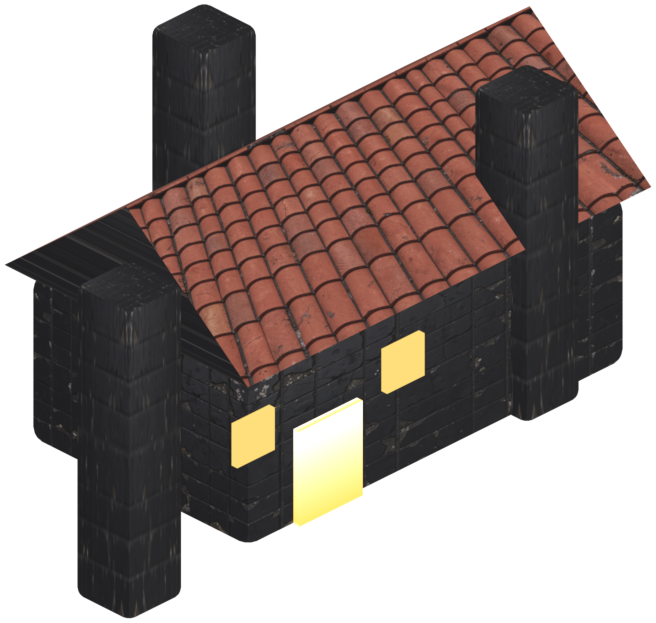
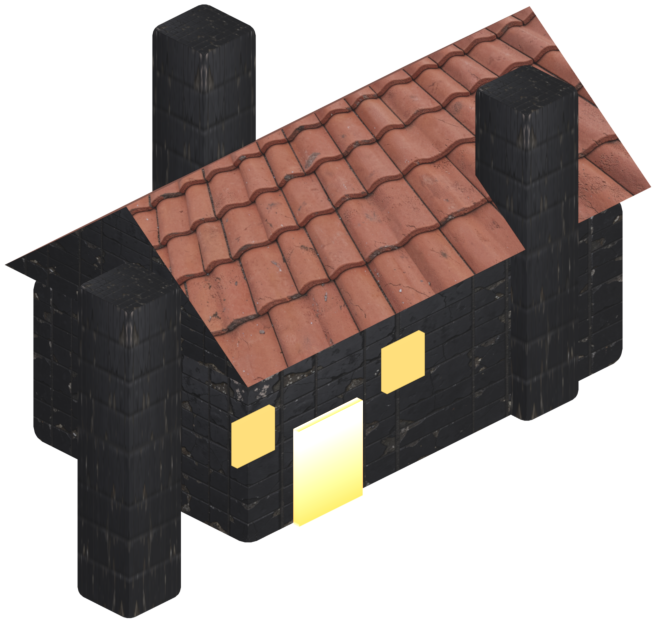
fix(world122): 仓鼠兵营屋顶 v2——山墙端面 UV u沿Y修复黑砖拉伸 + 红瓦按斜面比例重新生图(1280x500)

Changed region(s): [[0.1829, 0.0, 1.0, 0.6404]]

diff --git a/tools/ai-gen/render-factory-real.py b/tools/ai-gen/render-factory-real.py
@@ -139,21 +139,23 @@ def make_prism(L, W, H):
 
 def prism_uv(o, L, W, H):
     """坡屋顶 UV：坡面 u 沿 X（瓦行平行檐口/斜边）、v 沿斜面坡度（z/H，脊=1）；
-    山墙端面平面映射（u 沿 X、v 沿 Z）。"""
+    山墙端面平面映射（u 沿 Y 水平、v 沿 Z——端面在 Y-Z 平面，u 绝不能沿 X 否则
+    纹理坍缩成单列竖带被拉满全三角）。"""
     me = o.data
     uvl = me.uv_layers[0] if me.uv_layers else me.uv_layers.new(name="UVMap")
     for poly in me.polygons:
         coords = [me.vertices[me.loops[li].vertex_index].co for li in poly.loop_indices]
         xs = [c.x for c in coords]
+        ys = [c.y for c in coords]
         zs = [c.z for c in coords]
-        dx = max((max(xs) - min(xs)) or 1.0, 1e-6)
-        dz = max((max(zs) - min(zs)) or 1.0, 1e-6)
         for li, c in zip(poly.loop_indices, coords):
             if len(poly.vertices) == 3:
-                u = (c.x - min(xs)) / dx
-                v = (c.z - min(zs)) / dz
+                # 山墙端面（Y-Z 平面）：u 沿 Y 水平、v 沿 Z
+                u = (c.y - min(ys)) / max((max(ys) - min(ys)) or 1.0, 1e-6)
+                v = (c.z - min(zs)) / max((max(zs) - min(zs)) or 1.0, 1e-6)
             else:
-                u = (c.x - min(xs)) / dx
+                # 坡面：u 沿 X（瓦行平行檐口）、v = z/H（沿坡度，脊=1）
+                u = (c.x - min(xs)) / max((max(xs) - min(xs)) or 1.0, 1e-6)
                 v = max(0.0, min(1.0, c.z / max(H, 1e-6)))
             uvl.data[li].uv = (u, v)
     me.update()

diff --git a/.agents/skills/game-dev-lessons/SKILL.md b/.agents/skills/game-dev-lessons/SKILL.md
@@ -908,6 +908,10 @@ this.ai = config.ai || {};
 - **棱柱分面材质**：三角棱柱（prism）有坡面+山墙端面两类面，需要"坡面红瓦/端面黑砖"
   时按面设 material_index（坡面=1 屋顶槽、端面/底面=0 墙槽），再给坡面做专用 UV
   （u 沿棱柱 X = 瓦行平行檐口斜边、v=z/H 沿坡度）——别把整根棱柱贴同一张图。
+- **山墙端面 UV 的坑**：端面在 Y-Z 平面，u 必须沿 Y（水平）、v 沿 Z；u 沿 X（法线方向，
+  x 恒等）会让纹理坍缩成单列竖带拉满三角 = "黑砖拉伸"（仓鼠兵营 v2 实测修复）。
+- **坡面贴图按斜面长宽比生成**：面 = L × slope_len（=√((W/2)²+H²)），贴图按同比例出
+  （如 280×109 → 1280×500），否则平铺后瓦片被横向拉长；瓦行方向 = u 沿棱柱 X（平行檐口）。
 - 建模复用：仓鼠小屋同视角 spec 模板（elevation 30 / azimuth 0 / resolution 1024 /
   bottom_y 880 / max_width_frac 0.8）；黑砖走 klein-walltex LoRA
   （`--host 192.168.3.142 --model flux2-klein-4b-walltex`），验收看暗色/白边 0%/砖格 FFT 峰。

diff --git a/CHANGELOG.md b/CHANGELOG.md
@@ -1,4 +1,14 @@
 # 变更日志
+### 对话：仓鼠兵营屋顶材质修正 v2——山墙 UV 修复 + 按斜面比例重生红瓦（2026-08-16）
+- 用户复测：黑砖部分（山墙端面）错误拉伸、斜面瓦行仍不平行。
+- **山墙拉伸根因**：`prism_uv` 把端面三角的 u 映射到 X（端面法线方向，x 恒等）→
+  纹理坍缩成单列竖带被拉满整个三角。修复：端面 u 沿 Y 水平、v 沿 Z。
+- **瓦行/比例**：红瓦贴图按斜面长宽比重新生成（1280×500≈2.57:1，瓦行平行长边；
+  旧 1024×656 平铺到 280×109 斜面 → 瓦片横向拉长 1.6×）；坡面 v=z/H 沿坡度、
+  u 沿 X 平行檐口。
+- 重渲入库 `assets/terrain/hamster_barracks.png`（656×623）：山墙两端黑砖带砖纹
+  （std 35.9）、坡面带红瓦。
+
 ### 对话：仓鼠兵营屋顶材质修正——只坡面红瓦、山墙黑砖 + 瓦行平行檐口（2026-08-16）
 - 用户反馈：屋顶整根 prism 都贴红瓦、贴图方向不对。
 - 修复（render-factory-real.py）：`make_prism` 按面分材质槽（端三角/底面=槽0 墙、

diff --git a/SKILL.md b/SKILL.md
@@ -1452,6 +1452,9 @@ RGB 151/87/70 红主色）+ 屋顶 prism 材质 `roof`（墙身仍是黑砖 wall
 按面分材质槽（端三角/底面=槽0 墙，坡面=槽1 屋顶）+ 新增 prism_uv（坡面 u 沿 X 瓦行
 平行斜边、v=z/H 沿坡度；山墙平面映射）——`material:"roof"` 的棱柱自动走双槽+坡面 UV，
 其它材质棱柱兜底复位单槽。
+**山墙端面 UV 必须 u 沿 Y**（端面在 Y-Z 平面，u 沿 X=法线方向会让纹理坍缩成单列竖带
+拉满三角——黑砖"错误拉伸"根因，2026-08-16 v2 修复）；红瓦贴图**按斜面长宽比重新生成**
+（1280×500≈2.57:1，瓦行平行长边；旧 1024×656 平铺到 280×109 斜面会把瓦片横向拉长 1.6×）。
 投影坑：前塔尖顶（z 高于屋脊但 y 更靠前）会被屋顶前坡遮挡——2.5D 前低后高投影下，
 「塔顶高于屋脊」≠「屏幕上高于屋脊」，塔台做平顶最稳。
 
